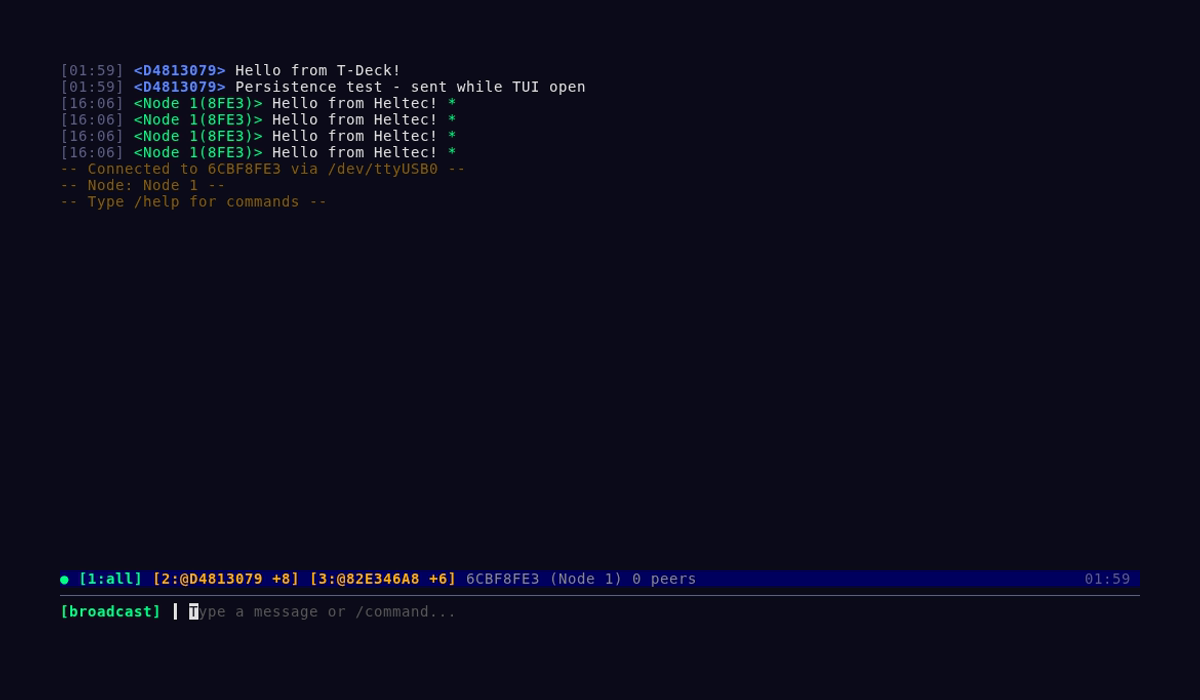
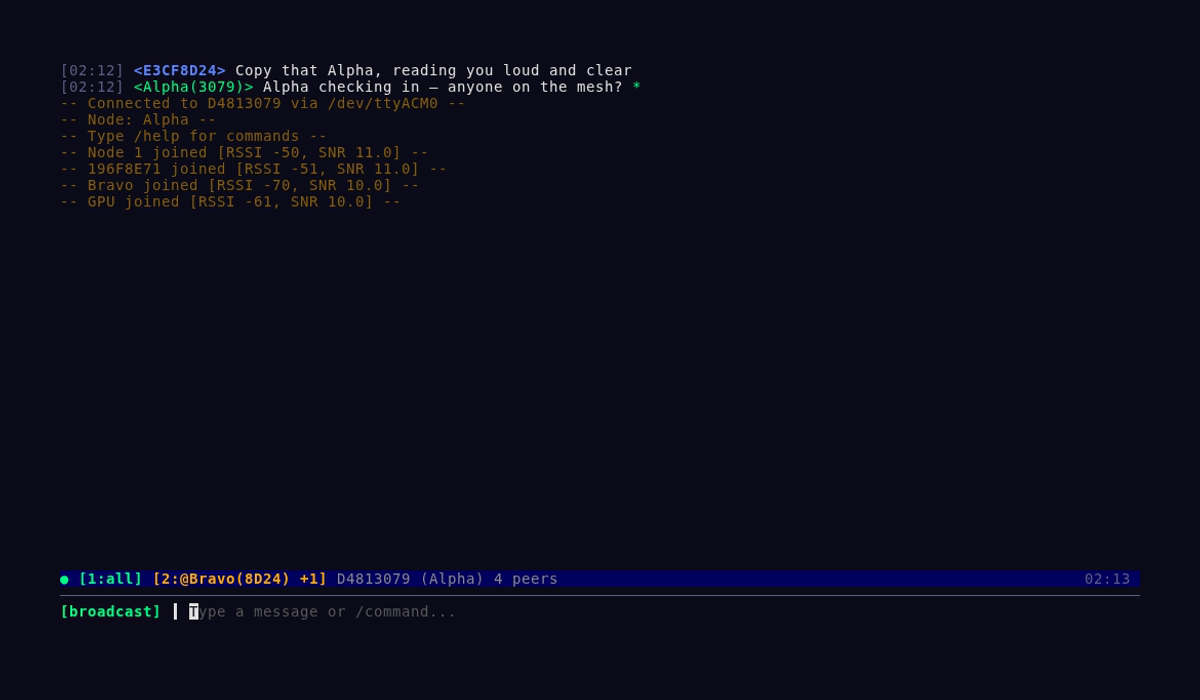
docs: re-record VHS with live mesh conversation, add mouse support
- Re-recorded tui-chat.gif with real two-node conversation (Alpha + Bravo)
- Bravo sends replies during recording so incoming messages appear live
- Shows broadcast, /nodes, and real mesh traffic in the demo
- Re-recorded tui-overview.png connected to live node (ACM0)
- Added mouse support bullet to TUI feature list
- Removed helper scripts, kept reproducible .tape files

Changed region(s): [[0.0308, 0.09, 0.5242, 0.3], [0.1542, 0.81, 0.5858, 0.84]]

diff --git a/README.md b/README.md
@@ -82,6 +82,7 @@ The TUI is designed as an IRC-style operations console for Bramble. It combines 
 - **Status bar:** transport state, active buffers, unread counts, peer counts, clock
 - **Command input:** message composition plus slash commands like `/nodes`, `/stats`, `/config`, `/location`
 - **Buffer model:** broadcast, channel, and DM buffers with quick keyboard switching
+- **Mouse support:** scroll wheel for history, click a nickname to open a DM, click status bar tabs to switch buffers
 
 ## Global Flags
 